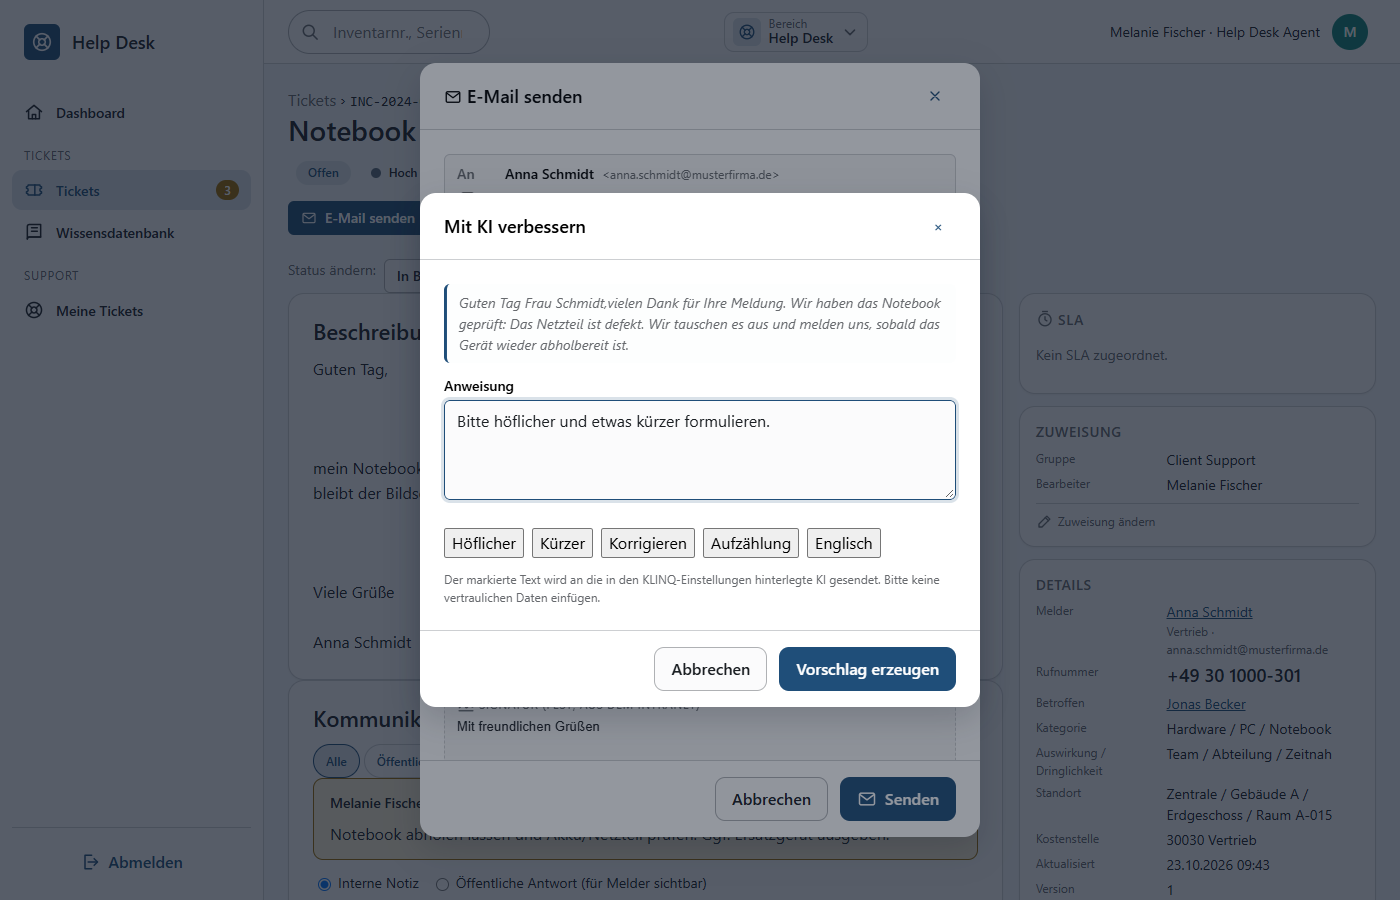
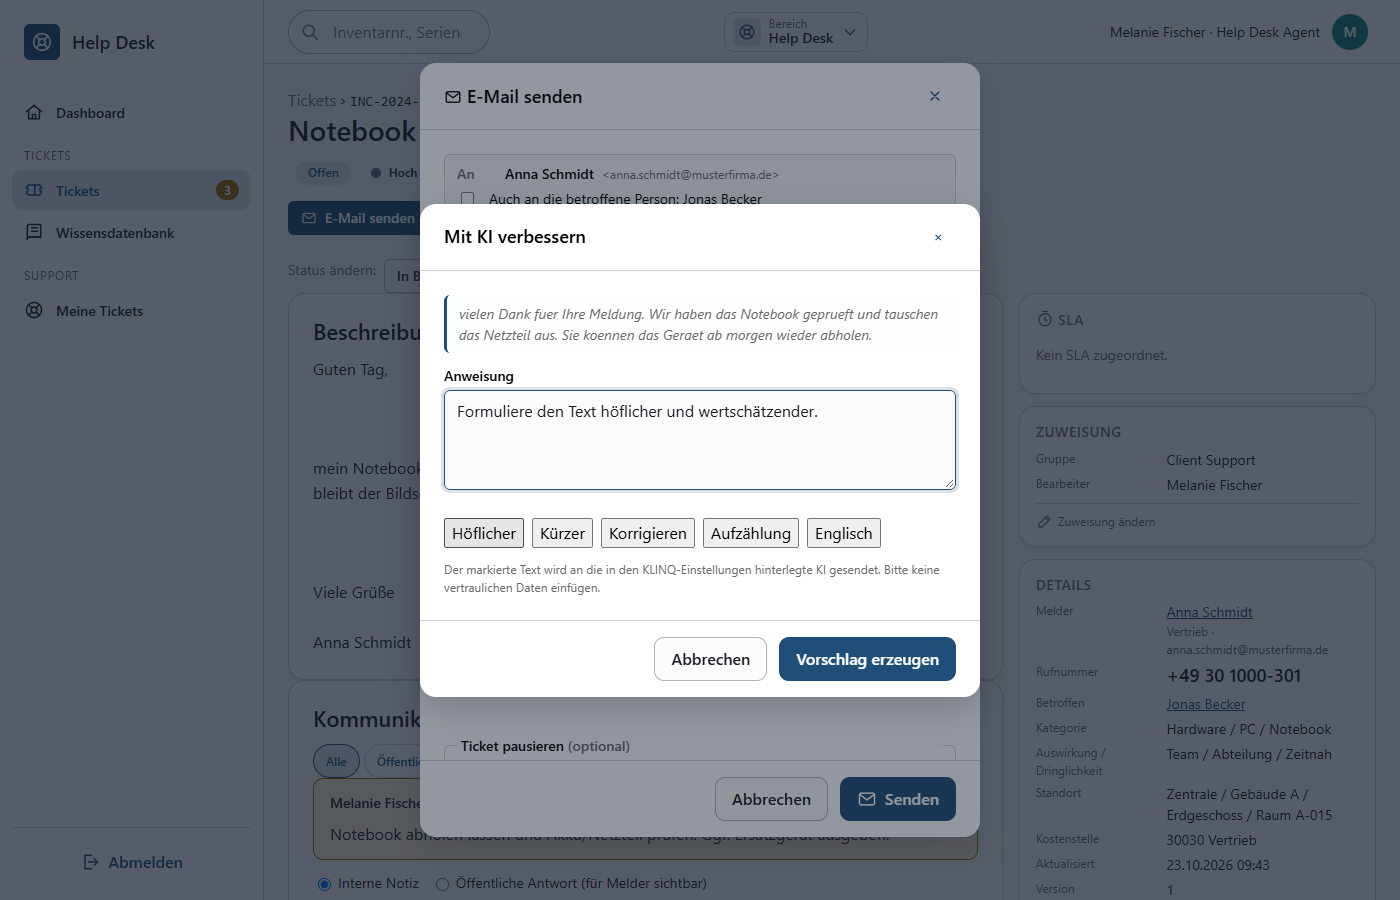
KLINQ: Signatur schreibgeschuetzt im Mail-Editor statt eigenem Bereich
Die Signatur steht wie im Orvanta-Mail-Editor direkt im Textfeld
(contenteditable="false", .ov-signature-block). Der separate Bereich mit
Label und Hinweistext entfaellt vollstaendig.

- helpdesk-mail.js: renderSignature()/guardSignature() nach dem Vorbild aus
  orvanta.js; die Signatur wird beim Laden eingesetzt, gegen Loeschen und
  Bearbeiten geschuetzt und bei Manipulation neu gerendert.
- TicketMailService: eine aus dem Editor mitgesendete Signatur wird serverseitig
  verworfen, die Signatur des angemeldeten Agenten wird weiterhin autoritativ
  angehaengt.
- Integrationstest fuer den verworfenen Editor-Block ergaenzt.
- Screenshots und Doku aktualisiert.

diff --git a/klinq/public/js/helpdesk-mail.js b/klinq/public/js/helpdesk-mail.js
@@ -17,7 +17,6 @@
     const form = root.querySelector("[data-hd-mail-form]");
     const editor = root.querySelector("[data-hd-mail-editor]");
     const bodyField = root.querySelector("[data-hd-mail-body]");
-    const signatureBody = root.querySelector("[data-hd-mail-signature-body]");
     const subjectField = root.querySelector("[data-hd-mail-subject]");
     const pauseCode = root.querySelector("[data-hd-mail-pause-code]");
     const pauseUntil = root.querySelector("[data-hd-mail-pause-until]");
@@ -78,6 +77,7 @@
 
     // ---------------------------------------------------------------- Signatur
 
+    let signatureHtml = "";
     let signaturePromise = null;
 
     /** Feste Signatur des angemeldeten Agenten einmalig nachladen. */
@@ -86,25 +86,144 @@
             return signaturePromise;
         }
         signaturePromise = api(root.getAttribute("data-signature-url")).then(function (data) {
-            if (!signatureBody) {
-                return data;
-            }
-            if (data && data.html) {
-                signatureBody.innerHTML = inlineStylesToCssom(data.html);
-                applyInlineStyles(signatureBody);
-            } else {
-                signatureBody.textContent = "Für Ihr Konto ist keine Signatur hinterlegt.";
-                signatureBody.className += " text-muted text-sm";
-            }
+            signatureHtml = data && data.html ? String(data.html) : "";
+            renderSignature();
             return data;
         }).catch(function () {
             signaturePromise = null;
-            if (signatureBody) {
-                signatureBody.textContent = "Die Signatur konnte nicht geladen werden. Sie wird beim Versand dennoch angehängt.";
-            }
         });
         return signaturePromise;
     }
+
+    /**
+     * Signatur schreibgeschützt in den Editor setzen – wie im Orvanta-Mail-Editor:
+     * ein Block mit contenteditable="false" am Ende des Textes. Gesendet wird
+     * trotzdem die serverseitige Fassung; der Block hier ist die Anzeige.
+     */
+    function renderSignature() {
+        if (!editor) {
+            return;
+        }
+        editor.querySelectorAll(".ov-signature-block").forEach(function (node) { node.remove(); });
+        if (signatureHtml === "") {
+            return;
+        }
+        const holder = document.createElement("div");
+        holder.innerHTML = inlineStylesToCssom(signatureHtml);
+        applyInlineStyles(holder);
+        const block = holder.querySelector(".ov-signature-block") || holder.firstElementChild;
+        if (!block) {
+            return;
+        }
+        block.setAttribute("contenteditable", "false");
+        const quote = editor.querySelector(":scope > blockquote");
+        if (quote) {
+            editor.insertBefore(block, quote);
+        } else {
+            editor.appendChild(block);
+        }
+        if (!block.previousElementSibling) {
+            const spacer = document.createElement("p");
+            spacer.appendChild(document.createElement("br"));
+            editor.insertBefore(spacer, block);
+        }
+        editor.setAttribute("data-hd-signature-html", block.outerHTML);
+    }
+
+    /**
+     * Schreibschutz der Signatur im Editor: Eingaben, die den Block berühren,
+     * werden verworfen; wurde er dennoch entfernt, wird er wieder eingesetzt.
+     */
+    function guardSignature() {
+        if (!editor) {
+            return;
+        }
+        editor.addEventListener("beforeinput", function (event) {
+            const block = editor.querySelector(".ov-signature-block");
+            const selection = window.getSelection();
+            if (!block || !selection || !selection.rangeCount) {
+                return;
+            }
+            const range = selection.getRangeAt(0);
+            const inside = block.contains(range.startContainer) || block.contains(range.endContainer);
+            if (!inside && (range.collapsed || !range.intersectsNode(block))) {
+                return;
+            }
+            event.preventDefault();
+            if (range.collapsed && inside) {
+                return;
+            }
+            // Nur die Teile der Auswahl vor und hinter der Signatur bearbeiten
+            // (z. B. "Alles auswählen" + Entf).
+            const blockRange = document.createRange();
+            blockRange.selectNode(block);
+            let before = null;
+            let after = null;
+            if (range.compareBoundaryPoints(Range.START_TO_START, blockRange) < 0) {
+                before = range.cloneRange();
+                before.setEndBefore(block);
+            }
+            if (range.compareBoundaryPoints(Range.END_TO_END, blockRange) > 0) {
+                after = range.cloneRange();
+                after.setStartAfter(block);
+            }
+            if (after) {
+                after.deleteContents();
+            }
+            if (before) {
+                before.deleteContents();
+            }
+            editor.querySelectorAll(":scope > p:empty").forEach(function (p) {
+                p.appendChild(document.createElement("br"));
+            });
+            if (!block.previousElementSibling) {
+                const spacer = document.createElement("p");
+                spacer.appendChild(document.createElement("br"));
+                editor.insertBefore(spacer, block);
+            }
+            const caret = document.createRange();
+            if (before) {
+                caret.setStart(before.startContainer, before.startOffset);
+            } else {
+                caret.setStart(block.previousElementSibling, 0);
+            }
+            caret.collapse(true);
+            selection.removeAllRanges();
+            selection.addRange(caret);
+            if (event.inputType === "insertText" && typeof event.data === "string") {
+                document.execCommand("insertText", false, event.data);
+            } else if (event.inputType === "insertParagraph") {
+                document.execCommand("insertParagraph");
+            } else {
+                editor.dispatchEvent(new Event("input", { bubbles: true }));
+            }
+        });
+        editor.addEventListener("input", function () {
+            if (signatureHtml === "") {
+                return;
+            }
+            const block = editor.querySelector(".ov-signature-block");
+            // Entfernt oder (z. B. per Formatierungsbefehl) verändert: Original wiederherstellen.
+            if (!block || block.outerHTML !== editor.getAttribute("data-hd-signature-html")) {
+                renderSignature();
+            }
+        });
+    }
+
+    /** Editorinhalt ohne die feste Signatur (für Prüfung und Leerstand). */
+    function editorContent() {
+        if (!editor) {
+            return { text: "", hasImage: false };
+        }
+        const clone = editor.cloneNode(true);
+        clone.querySelectorAll(".ov-signature-block").forEach(function (node) { node.remove(); });
+        return {
+            text: (clone.textContent || "").trim(),
+            hasImage: clone.querySelector("img") !== null
+        };
+    }
+
+    guardSignature();
 
     root.addEventListener("toggle", function () {
         if (!root.open) {
@@ -521,8 +640,8 @@
                 errorEl.hidden = true;
             }
             const html = editor ? editor.innerHTML.trim() : "";
-            const text = editor ? (editor.textContent || "").trim() : "";
-            if (text === "" && html.indexOf("<img") < 0) {
+            const content = editorContent();
+            if (content.text === "" && !content.hasImage) {
                 event.preventDefault();
                 showError("Bitte einen Nachrichtentext eingeben.");
                 if (editor) {

diff --git a/klinq/public/css/pages/helpdesk.css b/klinq/public/css/pages/helpdesk.css
@@ -508,25 +508,8 @@ progress.is-info::-moz-progress-bar { background: var(--color-info); }
     border-left: 3px solid var(--color-border);
     color: var(--color-text-muted);
 }
-.hd-mail-signature {
-    display: grid;
-    gap: var(--space-1);
-    padding: var(--space-2) var(--space-3);
-    border: 1px dashed var(--color-border);
-    border-radius: var(--radius-sm);
-    background: var(--color-surface-muted, #f5f5f5);
-}
-.hd-mail-signature-label {
-    display: inline-flex;
-    align-items: center;
-    gap: var(--space-1);
-    font-size: var(--font-size-xs);
-    text-transform: uppercase;
-    letter-spacing: 0.04em;
-    color: var(--color-text-muted);
-}
-.hd-mail-signature-body { overflow-x: auto; }
-.hd-mail-signature-body img { max-width: 100%; height: auto; }
+.hd-mail-editor .ov-signature-block { cursor: default; }
+.hd-mail-editor .ov-signature-block img { max-width: 240px; height: auto; }
 .hd-mail-pause {
     display: grid;
     gap: var(--space-2);

diff --git a/klinq/app/Services/Helpdesk/TicketMailService.php b/klinq/app/Services/Helpdesk/TicketMailService.php
@@ -16,9 +16,9 @@ use App\Support\HtmlSanitizer;
  * E-Mail eines Agenten aus einem Ticket an die meldende und optional an die
  * betroffene Person.
  *
- * Der Text kommt aus dem Editor im Ticket, die Signatur stammt unveränderlich
- * aus dem Intranet (Orvanta-Signatur des angemeldeten Agenten) und wird erst
- * beim Versand serverseitig angehängt. Jede gesendete E-Mail steht danach als
+ * Der Text kommt aus dem Editor im Ticket. Die Signatur stammt unveränderlich
+ * aus dem Intranet (Orvanta-Signatur des angemeldeten Agenten); sie steht
+ * schreibgeschützt im Editor und wird beim Versand serverseitig angehängt. Jede gesendete E-Mail steht danach als
  * öffentlicher Kommentar im Ticketverlauf; auf Wunsch wird das Ticket im
  * selben Schritt mit Grund und Ende pausiert.
  */
@@ -143,6 +143,9 @@ final class TicketMailService
 
         $subject = $this->cleanSubject((string) ($input['subject'] ?? ''));
         $html = HtmlSanitizer::clean((string) ($input['body_html'] ?? ''), self::MAX_BODY_CHARS);
+        // Die Signatur steht schreibgeschützt im Editor; gesendet wird immer die
+        // serverseitige Fassung, damit sie nicht doppelt oder verändert ankommt.
+        $html = self::stripSignatureBlocks($html);
         $text = HtmlSanitizer::plain($html);
         if ($text === '' && !str_contains($html, '<img')) {
             throw ValidationException::single('body_html', 'Bitte einen Nachrichtentext eingeben.');
@@ -238,6 +241,65 @@ final class TicketMailService
         $untilUtc = $this->tickets->validatePauseUntil($until);
 
         return ['code' => $code, 'name' => $name, 'until' => $until, 'until_utc' => $untilUtc];
+    }
+
+    /**
+     * Signaturblöcke aus dem Editor-HTML entfernen. Der Editor zeigt die Signatur
+     * schreibgeschützt an; verbindlich ist die Fassung aus {@see renderBody()}.
+     */
+    private static function stripSignatureBlocks(string $html): string
+    {
+        if ($html === '' || !str_contains($html, 'ov-signature-block')) {
+            return $html;
+        }
+        if (!class_exists(\DOMDocument::class)) {
+            return trim((string) preg_replace(
+                '#<div[^>]*class="[^"]*ov-signature-block[^"]*"[^>]*>.*?</div>#is',
+                '',
+                $html
+            ));
+        }
+
+        $previous = libxml_use_internal_errors(true);
+        $doc = new \DOMDocument('1.0', 'UTF-8');
+        $loaded = $doc->loadHTML(
+            '<?xml encoding="utf-8" ?><div data-strip-root="1">' . $html . '</div>',
+            LIBXML_HTML_NOIMPLIED | LIBXML_HTML_NODEFDTD | LIBXML_NONET
+        );
+        libxml_clear_errors();
+        libxml_use_internal_errors($previous);
+        if ($loaded === false) {
+            return $html;
+        }
+
+        $root = null;
+        foreach ($doc->getElementsByTagName('div') as $candidate) {
+            if ($candidate->getAttribute('data-strip-root') === '1') {
+                $root = $candidate;
+                break;
+            }
+        }
+        if ($root === null) {
+            return $html;
+        }
+
+        $hits = [];
+        foreach ($root->getElementsByTagName('*') as $element) {
+            $classes = preg_split('/\s+/', strtolower($element->getAttribute('class'))) ?: [];
+            if (in_array('ov-signature-block', $classes, true)) {
+                $hits[] = $element;
+            }
+        }
+        foreach ($hits as $element) {
+            $element->parentNode?->removeChild($element);
+        }
+
+        $out = '';
+        foreach ($root->childNodes as $child) {
+            $out .= (string) $doc->saveHTML($child);
+        }
+
+        return trim($out);
     }
 
     /**

diff --git a/klinq/tests/Integration/TicketMailServiceIntegrationTest.php b/klinq/tests/Integration/TicketMailServiceIntegrationTest.php
@@ -168,6 +168,22 @@ final class TicketMailServiceIntegrationTest extends DatabaseTestCase
         $this->assertFalse(str_contains($html, 'alert(1)'), 'Skripte aus dem Editor werden entfernt.');
     }
 
+    public function testSignatureFromEditorIsReplacedByTheServerSideCopy(): void
+    {
+        $ticket = $this->createTicket();
+
+        $this->service(static fn (string $username): string => '<div class="ov-signature-block">Max Muster</div>')
+            ->send((int) $ticket['id'], [
+                'subject' => 'Antwort',
+                'body_html' => '<p>Text</p><div class="ov-signature-block" contenteditable="false">Gefaelscht</div>',
+            ]);
+
+        $html = self::stubRequests()[0]['html'];
+        $this->assertSame(1, substr_count($html, 'ov-signature-block'), 'Die Signatur steht genau einmal in der Mail.');
+        $this->assertStringContains('<div class="ov-signature-block">Max Muster</div>', $html);
+        $this->assertFalse(str_contains($html, 'Gefaelscht'), 'Die Signatur aus dem Editor wird verworfen.');
+    }
+
     public function testPauseIsSetTogetherWithTheMail(): void
     {
         $ticket = $this->createTicket();

diff --git a/klinq/resources/views/helpdesk/tickets/show.php b/klinq/resources/views/helpdesk/tickets/show.php
@@ -599,13 +599,6 @@ $pauseCodes = implode(',', array_column($pauseTransitions, 'code'));
                 <p class="form-hint">Rechtsklick öffnet das Kontextmenü mit Ausschneiden, Kopieren, Einfügen und „Mit KI verbessern“. Formatierungen und Bilder aus der Zwischenablage bleiben erhalten.</p>
             </div>
 
-            <div class="hd-mail-signature" data-hd-mail-signature>
-                <span class="hd-mail-signature-label"><?= icon('signature', 'icon icon-xs') ?> Signatur <span class="text-muted">(fest, aus dem Intranet)</span></span>
-                <div class="hd-mail-signature-body" data-hd-mail-signature-body>
-                    <span class="text-muted text-sm">Wird geladen …</span>
-                </div>
-            </div>
-
             <?php if ($mailCompose['pauses'] !== []): ?>
             <fieldset class="hd-mail-pause">
                 <legend>Ticket pausieren <span class="text-muted">(optional)</span></legend>

diff --git a/klinq/docs/helpdesk.md b/klinq/docs/helpdesk.md
@@ -221,12 +221,14 @@ ein Overlay mit dem Mail-Editor aus Orvanta – samt **Kontextmenü** und **KI-U
 
 ![KI-Dialog im Mail-Editor](screenshots/helpdesk-mail-ai.png)
 
-- **Signatur**: fest, unveränderlich und **dieselbe wie in Orvanta** – sie wird nicht im Browser erzeugt, sondern beim
-  Senden serverseitig angehängt (`GET /helpdesk/tickets/{id}/mail/signature` liefert nur die Vorschau). Quelle ist
+- **Signatur**: steht **schreibgeschützt im Editor** (Block mit `contenteditable="false"`, wie im Orvanta-Mail-Editor),
+  fest, unveränderlich und **dieselbe wie in Orvanta** – sie wird nicht im Browser erzeugt, sondern beim Senden
+  serverseitig angehängt (`GET /helpdesk/tickets/{id}/mail/signature` liefert nur die Anzeige im Editor; ein mitgesendeter
+  Signaturblock wird verworfen). Quelle ist
   `GET /internal/klinq/signatur` im Intranet: Dort wird der Benutzername des angemeldeten Agenten auf den
   Telefonbucheintrag abgebildet (quellenunabhängig, Hauptquelle zuerst), die AD-Gruppen werden geladen und
   `OrvantaSignatureService::forUser()` rendert die Signatur. Ist im Intranet keine Signatur hinterlegt oder ist es
-  nicht erreichbar, wird ohne Signatur gesendet; der Dialog weist darauf hin.
+  nicht erreichbar, wird ohne Signatur gesendet.
 - **Pausierung**: Im Dialog lässt sich zusätzlich wählen, ob und **wie lange** das Ticket pausiert wird, mit **Grund**
   (Pausierungsstatus aus dem Workflow) und **Pausierende** (Datum/Uhrzeit, Vorgabe: morgen 12:00). Die Pausierung wird
   nach dem Versand über `TicketService::changeStatus()` gesetzt; ein Fehler dabei wird als Warnung gemeldet, die Mail
@@ -452,7 +454,7 @@ Details, Konfiguration und ein Testaufbau mit Ollama: [KI-Unterstützung im Help
 
 - **Migration** `database/migrations/008_helpdesk.sql`, `009_helpdesk_mail.sql` (Threading-Spalten, `ticket_inbound_mails`), `010_helpdesk_quick_report.sql` (Quelle `form`, Melderspalten `reporter_username`/`reporter_host`/`reporter_ip`/`reporter_phone`/`reporter_department`), `012_helpdesk_mail_settings.sql` (`tickets.mail_from_address`/`mail_from_name`, `ticket_comments.mail_from_address`) und `015_helpdesk_support_shifts.sql` (`helpdesk_support_shifts`: tagesweise 1st-/2nd-Level-Zuständigkeit), `019_helpdesk_pause_until.sql` (Pausierstatus `waiting_feedback`/`waiting_third_party`/`waiting_delivery`/`waiting_internal`, `tickets.paused_until`), **Seeder** `database/seeders/003_helpdesk_defaults.sql` (Typen, Status, Prioritäten, SLA-Standardregeln, Beispielkategorien, Vorlagen).
 - **Code**: `app/Repositories/Ticket*Repository.php`, `KnowledgeBaseRepository.php`, `HelpdeskSupportShiftRepository.php`; `app/Services/Helpdesk/` (`TicketService`, `TicketWorkflowService`, `TicketSlaService`, `TicketPriorityMatrix`, `TicketNumberService`, `TicketMergeService`, `TicketNotificationService`, `TicketRuleService`/`TicketRuleEvaluator`, `TicketReportService`, `TicketMailIngestionService`, `TicketMailService`, `KnowledgeBaseService`, `HelpdeskAdminService`, `HelpdeskSchedulerService`, `ReporterIdentityService`, `SupportShiftService`); `app/Services/Helpdesk/Mail/` (`MimeMessageParser`, `InboundMail`, `MailboxClientInterface`, `ImapMailboxClient`, `FileMailboxClient`); `app/Services/Ad/AdUserLookupService.php` (Einzelabfrage fürs Störungsformular), `app/Support/IpRange.php`, `app/Support/HtmlSanitizer.php` (Bereinigung des Mail-Editors); `app/Controllers/Helpdesk/` (inkl. `HelpdeskSupportShiftController`); Provider `app/Core/Providers/helpdesk.php`; Routen `routes/modules/helpdesk.php`; Views `resources/views/helpdesk/`; `public/js/helpdesk.js`, `public/js/helpdesk-mail.js`, `public/css/pages/helpdesk.css`, `public/css/pages/quick-report.css`.
-- **Tests**: `tests/Unit/HelpdeskLogicTest.php` (Prioritätsmatrix, SLA-Berechnung mit Servicezeiten, Workflow-Übergänge, Regel-Auswertung, Rechte), `tests/Unit/HelpdeskMailParserTest.php` (MIME-Parser, RFC 2047/2231, Zitat-Erkennung, Auto-Reply-Erkennung, Ticketnummer/Message-ID), `tests/Integration/TicketServiceIntegrationTest.php` (Anlage, Nummernvergabe, Status, Zuweisung, Kommentare, Sichtbarkeit im Portal, Merge, Konflikte), `tests/Integration/HelpdeskAutomationIntegrationTest.php` (Regeln, Scheduler: Warnung/Verletzung/Eskalation/Auto-Close, Benachrichtigungen, Wissensdatenbank), `tests/Integration/HelpdeskMailIngestionIntegrationTest.php` (Ticket aus E-Mail, Threading über Betreff/`In-Reply-To`/`References`, Statuslogik, Merge-Weiterleitung, Duplikate, Auto-Replies, Anhänge), `tests/Unit/QuickReportTest.php` (Normalisierung des Windows-Kontos, Netzfreigaben, Systemkontext `runAs`), `tests/Unit/HtmlSanitizerTest.php` (Allowlist, Skripte, `javascript:`-Ziele, Bilder, `plain()`), `tests/Integration/TicketMailServiceIntegrationTest.php` (Agenten-Mail: Empfänger, Threading ohne `Auto-Submitted`, öffentlicher Kommentar, Signatur serverseitig, Pausierung, Validierung). Ausführen: `php tests/run.php --filter=Ticket` bzw. `--filter=Helpdesk`.
+- **Tests**: `tests/Unit/HelpdeskLogicTest.php` (Prioritätsmatrix, SLA-Berechnung mit Servicezeiten, Workflow-Übergänge, Regel-Auswertung, Rechte), `tests/Unit/HelpdeskMailParserTest.php` (MIME-Parser, RFC 2047/2231, Zitat-Erkennung, Auto-Reply-Erkennung, Ticketnummer/Message-ID), `tests/Integration/TicketServiceIntegrationTest.php` (Anlage, Nummernvergabe, Status, Zuweisung, Kommentare, Sichtbarkeit im Portal, Merge, Konflikte), `tests/Integration/HelpdeskAutomationIntegrationTest.php` (Regeln, Scheduler: Warnung/Verletzung/Eskalation/Auto-Close, Benachrichtigungen, Wissensdatenbank), `tests/Integration/HelpdeskMailIngestionIntegrationTest.php` (Ticket aus E-Mail, Threading über Betreff/`In-Reply-To`/`References`, Statuslogik, Merge-Weiterleitung, Duplikate, Auto-Replies, Anhänge), `tests/Unit/QuickReportTest.php` (Normalisierung des Windows-Kontos, Netzfreigaben, Systemkontext `runAs`), `tests/Unit/HtmlSanitizerTest.php` (Allowlist, Skripte, `javascript:`-Ziele, Bilder, `plain()`), `tests/Integration/TicketMailServiceIntegrationTest.php` (Agenten-Mail: Empfänger, Threading ohne `Auto-Submitted`, öffentlicher Kommentar, Signatur serverseitig – eine mitgesendete Signatur aus dem Editor wird verworfen, Pausierung, Validierung). Ausführen: `php tests/run.php --filter=Ticket` bzw. `--filter=Helpdesk`.
 
 ## Bekannte Einschränkungen
 
@@ -460,7 +462,7 @@ Details, Konfiguration und ein Testaufbau mit Ollama: [KI-Unterstützung im Help
 - Assets werden beim Anlegen mehrfach ausgewählt; nachträglich werden sie im Ticketdetail einzeln verknüpft/gelöst.
 - `readonly` kann im Portal keine Tickets anlegen (Rolle bleibt bewusst reine Leserolle); Mitarbeitende brauchen eine Fachrolle oder eine Help-Desk-Rolle.
 - Berichte basieren auf Live-Abfragen ohne Materialisierung; bei sehr großen Beständen empfiehlt sich ein Zeitraumfilter.
-- Agenten-E-Mails werden ohne Anhänge versendet (nur Text und eingebettete Bilder); die Signatur kommt aus dem Intranet und ist im Dialog nicht änderbar.
+- Agenten-E-Mails werden ohne Anhänge versendet (nur Text und eingebettete Bilder); die Signatur kommt aus dem Intranet und steht schreibgeschützt im Editor.
 
 ## Sinnvolle Erweiterungen
 

diff --git a/docs/klinq-referenz.md b/docs/klinq-referenz.md
@@ -776,8 +776,7 @@ Anmeldenamen, deshalb liefert das Intranet die fertige Signatur.
 | Zwischenspeicher | `Cache-Control: no-store` |
 
 `available = false` bedeutet: kein Telefonbucheintrag, keine passende
-Signaturregel oder leerer Text. KLINQ sendet dann ohne Signatur und weist im
-Dialog darauf hin. Die Ausgabe ist dieselbe wie in Orvanta
+Signaturregel oder leerer Text. KLINQ sendet dann ohne Signatur. Die Ausgabe ist dieselbe wie in Orvanta
 (`<div class="ov-signature-block">` mit inline gestalteter Tabelle und Logo als
 Data-URI) und wird **unverändert** übernommen – sie stammt aus dem vertrauten
 Intranet, nicht aus dem Browser.
